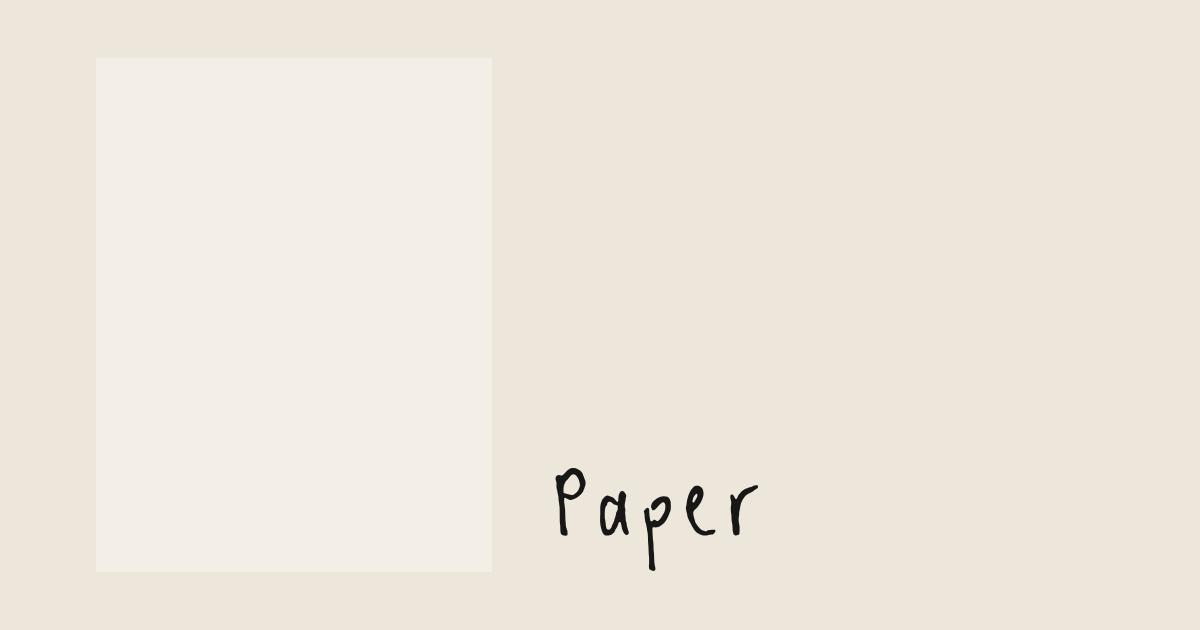
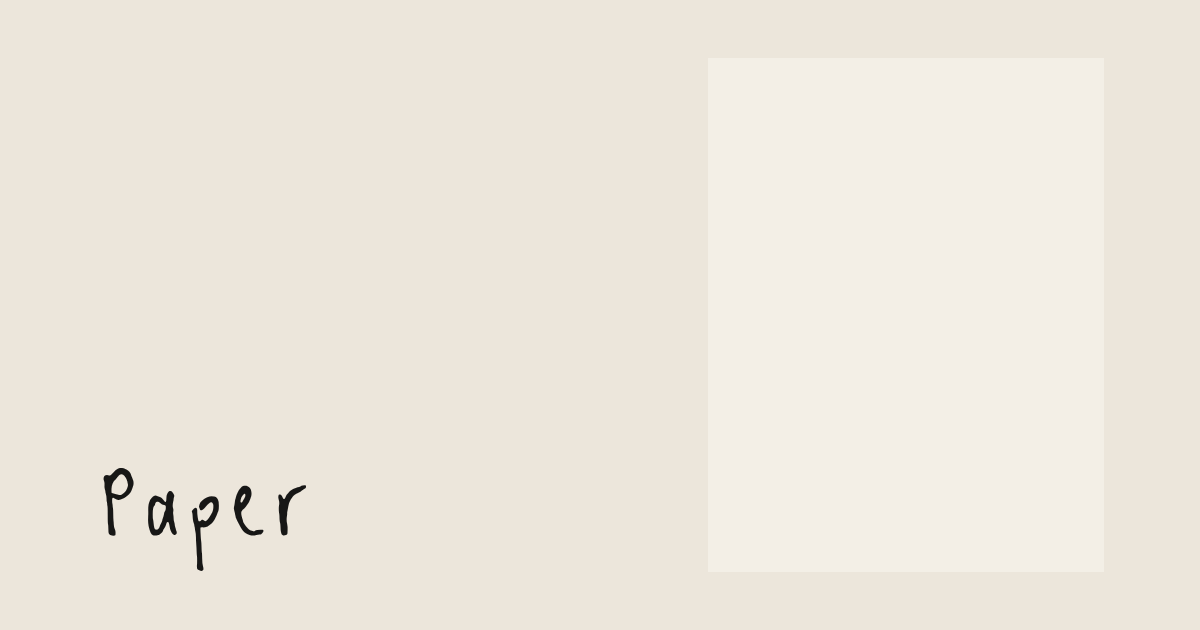
Link preview: the sheet on the right, "Paper" at the bottom left
The word sits at the bottom left of the card, its p's tail level with the sheet's bottom edge.

Claude-Session: https://claude.ai/code/session_01GtdkSYJLahZBiaVRCGKpMt

Changed region(s): [[0.0617, 0.7238, 0.2467, 0.9048], [0.4625, 0.7238, 0.6167, 0.9048], [0.6167, 0.754, 0.6475, 0.7841]]

diff --git a/app/web/download.html b/app/web/download.html
@@ -4,7 +4,7 @@
 <meta charset="utf-8">
 <meta name="viewport" content="width=device-width, initial-scale=1">
 <title>Paper App for Mac</title>
-<!-- the link preview in Messages, Slack and the like: a blank sheet on the desk, "Paper" handwritten beside it -->
+<!-- the link preview in Messages, Slack and the like: a blank sheet on the right of the desk, "Paper" handwritten at the bottom left -->
 <meta name="description" content="A surface for writers.">
 <meta property="og:type" content="website">
 <meta property="og:site_name" content="Paper">

diff --git a/app/index.html b/app/index.html
@@ -4,7 +4,7 @@
 <meta charset="utf-8">
 <meta name="viewport" content="width=device-width, initial-scale=1">
 <title>Paper</title>
-<!-- the link preview in Messages, Slack and the like: a blank sheet on the desk, "Paper" handwritten beside it -->
+<!-- the link preview in Messages, Slack and the like: a blank sheet on the right of the desk, "Paper" handwritten at the bottom left -->
 <meta name="description" content="A surface for writers.">
 <meta property="og:type" content="website">
 <meta property="og:site_name" content="Paper">
